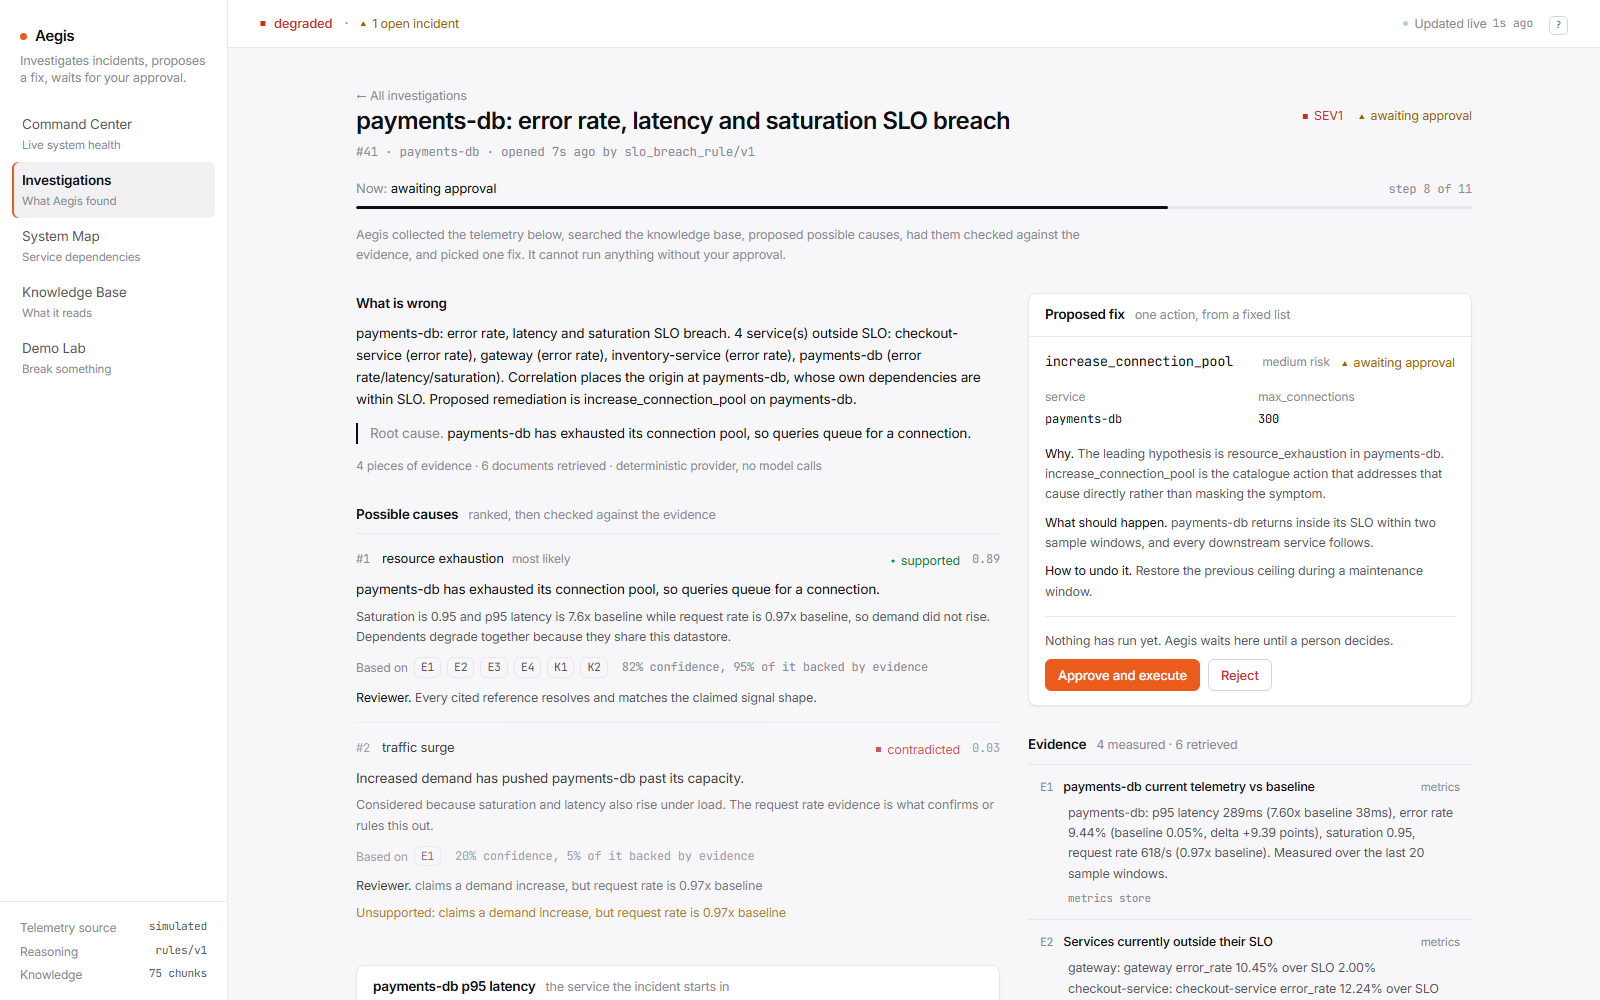
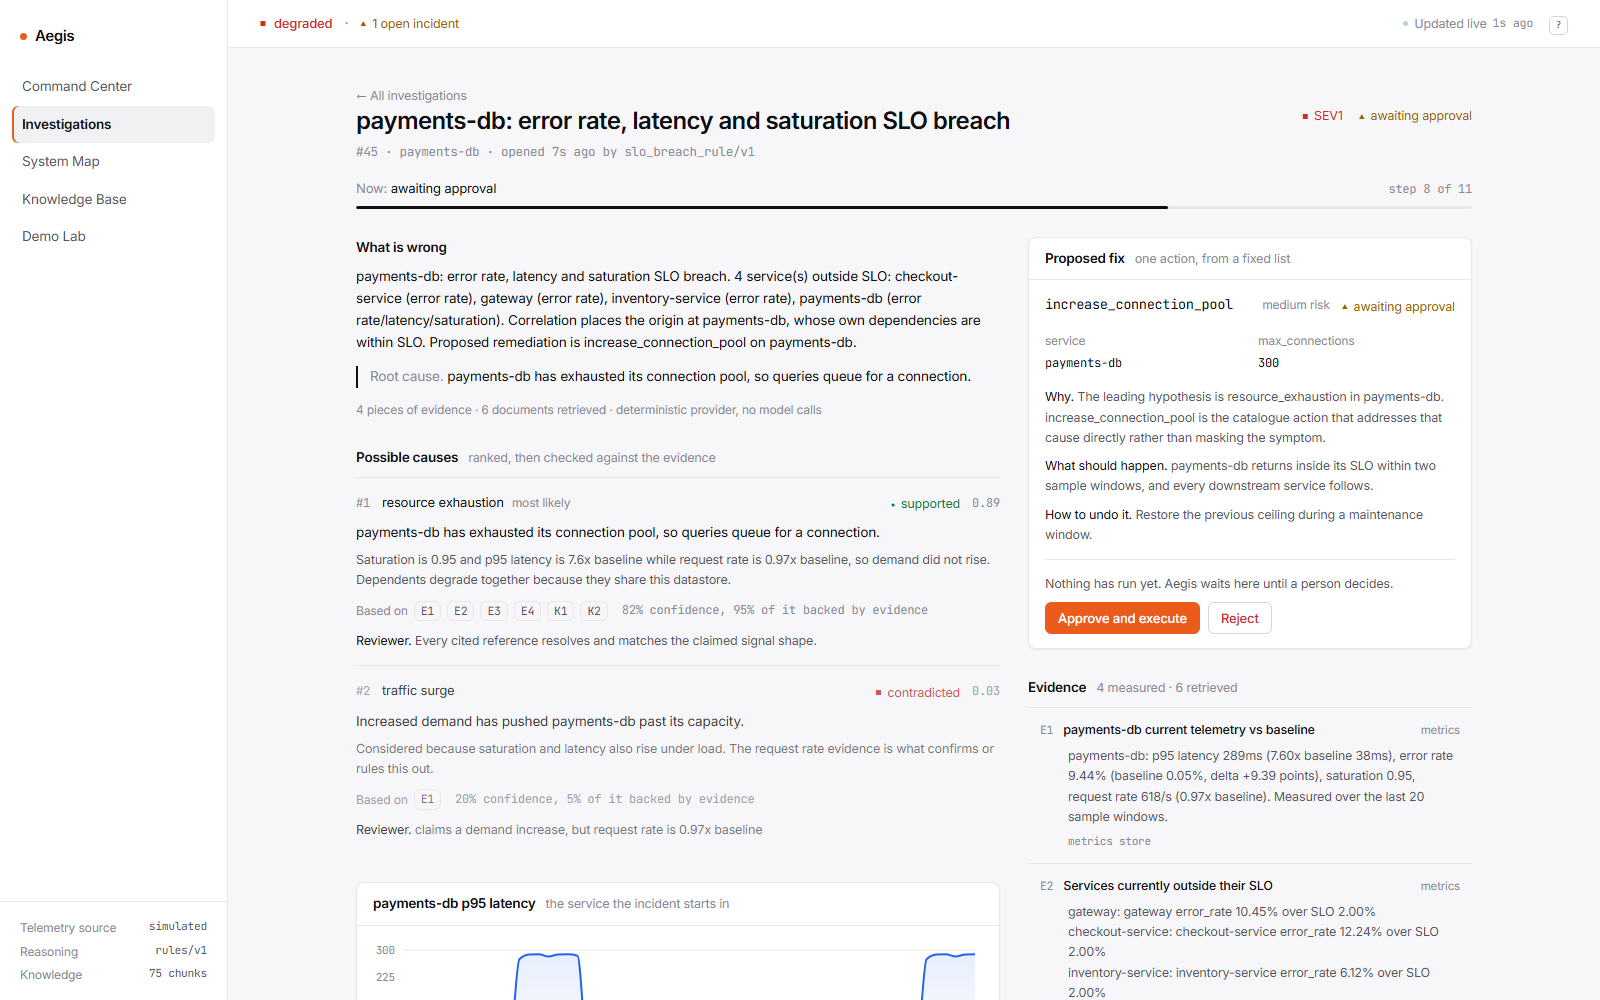
Cut the on-screen prose back
The interface had grown an explanation for everything: a tagline in the
sidebar, a caption under every nav item, a paragraph under every page title,
and a preamble on the investigation page restating the sections directly below
it. Added while trying to make the product self-explanatory, it ended up as
clutter that buried the data.

- Sidebar is five labels. The tagline and the per-item captions are gone.
- Page subtitles are one short line of metadata, or nothing where the content
  speaks for itself.
- The investigation preamble is gone; the section headings already say it.
- Fixed a real duplication: the reviewer note and the 'Unsupported' line were
  printing the same sentence twice, because the offline provider builds its
  note from the same claims. The claim is now suppressed when the note already
  quotes it.

diff --git a/frontend/src/components/Layout.tsx b/frontend/src/components/Layout.tsx
@@ -5,11 +5,11 @@ import { useIncidents, useSystemStatus } from '../hooks/queries'
 import { Badge, Kbd, StatusDot, fmtAgo } from './ui'
 
 const NAV = [
-  { to: '/', label: 'Command Center', key: 'c', end: true, note: 'Live system health' },
-  { to: '/incidents', label: 'Investigations', key: 'i', end: false, note: 'What Aegis found' },
-  { to: '/map', label: 'System Map', key: 'm', end: false, note: 'Service dependencies' },
-  { to: '/knowledge', label: 'Knowledge Base', key: 'k', end: false, note: 'What it reads' },
-  { to: '/lab', label: 'Demo Lab', key: 'l', end: false, note: 'Break something' },
+  { to: '/', label: 'Command Center', key: 'c', end: true },
+  { to: '/incidents', label: 'Investigations', key: 'i', end: false },
+  { to: '/map', label: 'System Map', key: 'm', end: false },
+  { to: '/knowledge', label: 'Knowledge Base', key: 'k', end: false },
+  { to: '/lab', label: 'Demo Lab', key: 'l', end: false },
 ]
 
 /** Telemetry polls every 2s; three missed cycles is no longer "live". */
@@ -151,14 +151,10 @@ export function Layout() {
             <span aria-hidden className="h-[7px] w-[7px] rounded-full bg-accent" />
             <span className="text-[15px] font-semibold tracking-tight text-ink">Aegis</span>
           </div>
-          {/* One line, so a first-time visitor knows what they are looking at. */}
-          <p className="mt-1 text-[12.5px] leading-snug text-ink-3">
-            Investigates incidents, proposes a fix, waits for your approval.
-          </p>
         </div>
 
         <div className="flex flex-col px-3">
-          {NAV.map(({ to, label, end, key, note }) => (
+          {NAV.map(({ to, label, end, key }) => (
             <NavLink
               key={to}
               to={to}
@@ -171,16 +167,13 @@ export function Layout() {
               }
             >
               {({ isActive }) => (
-                <>
-                  <span
-                    className={`block text-[13.5px] ${
-                      isActive ? 'font-semibold text-ink' : 'text-ink-2'
-                    }`}
-                  >
-                    {label}
-                  </span>
-                  <span className="block text-[11.5px] text-ink-3">{note}</span>
-                </>
+                <span
+                  className={`block text-[13.5px] ${
+                    isActive ? 'font-semibold text-ink' : 'text-ink-2'
+                  }`}
+                >
+                  {label}
+                </span>
               )}
             </NavLink>
           ))}

diff --git a/frontend/src/pages/IncidentInvestigation.tsx b/frontend/src/pages/IncidentInvestigation.tsx
@@ -120,11 +120,14 @@ function HypothesisCard({
         </p>
       )}
 
-      {hypothesis.unsupported_claims.map((claim) => (
-        <p key={claim} className="mt-1.5 text-[12.5px] leading-relaxed text-warn">
-          Unsupported: {claim}
-        </p>
-      ))}
+      {/* The reviewer note often already quotes the claim; do not print it twice. */}
+      {hypothesis.unsupported_claims
+        .filter((claim) => !hypothesis.critic_note.includes(claim))
+        .map((claim) => (
+          <p key={claim} className="mt-1.5 text-[12.5px] leading-relaxed text-warn">
+            Unsupported: {claim}
+          </p>
+        ))}
     </article>
   )
 }
@@ -290,12 +293,6 @@ export function IncidentInvestigation() {
         </div>
 
         <WorkflowTrack state={incident.workflow_state} />
-
-        <p className="max-w-3xl text-[12.5px] leading-relaxed text-ink-3">
-          Aegis collected the telemetry below, searched the knowledge base, proposed possible
-          causes, had them checked against the evidence, and picked one fix. It cannot run anything
-          without your approval.
-        </p>
       </header>
 
       {incident.workflow_error && (

diff --git a/frontend/src/pages/SystemMap.tsx b/frontend/src/pages/SystemMap.tsx
@@ -88,11 +88,7 @@ export function SystemMap() {
         <h1 className="text-[24px] leading-tight font-bold tracking-tight text-ink">
           System Map
         </h1>
-        <p className="mt-1.5 max-w-2xl text-[13px] leading-relaxed text-ink-3">
-          Each arrow points from a service to something it depends on. This is how Aegis separates
-          cause from consequence: when several services alarm at once, the real origin is the one
-          that is failing without any of its own dependencies failing.
-        </p>
+        <p className="mt-1 text-[12.5px] text-ink-3">Arrows point to dependencies</p>
       </header>
 
       <Card title="Dependency graph" hint="click a service for detail" bodyClass="p-0">

diff --git a/frontend/src/pages/DemoLab.tsx b/frontend/src/pages/DemoLab.tsx
@@ -34,11 +34,7 @@ export function DemoLab() {
           <h1 className="text-[24px] leading-tight font-bold tracking-tight text-ink">
             Demo Lab
           </h1>
-          <p className="mt-1.5 max-w-2xl text-[13px] leading-relaxed text-ink-3">
-            Break the simulated platform on purpose. Pick a failure below; within a few seconds
-            Aegis will detect it, work out which service it started in, and propose a fix for you
-            to approve.
-          </p>
+          <p className="mt-1 text-[12.5px] text-ink-3">Break the platform on purpose</p>
         </div>
         <div className="flex items-center gap-2">
           {openIncident && (

diff --git a/frontend/src/pages/KnowledgeBase.tsx b/frontend/src/pages/KnowledgeBase.tsx
@@ -22,11 +22,7 @@ export function KnowledgeBase() {
         <h1 className="text-[24px] leading-tight font-bold tracking-tight text-ink">
           Knowledge Base
         </h1>
-        <p className="mt-1.5 max-w-2xl text-[13px] leading-relaxed text-ink-3">
-          The runbooks, architecture notes and past postmortems Aegis reads during an
-          investigation. Search here to see exactly what it would retrieve, and why each result
-          ranked where it did.
-        </p>
+        <p className="mt-1 text-[12.5px] text-ink-3">What Aegis reads during an investigation</p>
       </header>
 
       <section>

diff --git a/frontend/src/pages/Incidents.tsx b/frontend/src/pages/Incidents.tsx
@@ -13,9 +13,8 @@ export function Incidents() {
         <h1 className="text-[24px] leading-tight font-bold tracking-tight text-ink">
           Investigations
         </h1>
-        <p className="mt-1.5 max-w-2xl text-[13px] leading-relaxed text-ink-3">
-          Every incident Aegis has opened, newest first.{' '}
-          {isLoading ? '' : `${incidents?.length ?? 0} recorded, ${open.length} still open.`}
+        <p className="tnum mt-1 text-[12.5px] text-ink-3">
+          {isLoading ? '—' : `${incidents?.length ?? 0} recorded · ${open.length} open`}
         </p>
       </header>
 

diff --git a/frontend/src/pages/CommandCenter.tsx b/frontend/src/pages/CommandCenter.tsx
@@ -133,9 +133,8 @@ export function CommandCenter() {
         <h1 className="text-[24px] leading-tight font-bold tracking-tight text-ink">
           Command Center
         </h1>
-        <p className="mt-1.5 max-w-2xl text-[13px] leading-relaxed text-ink-3">
-          {total || 'Six'} services, sampled every two seconds. An incident opens automatically when
-          a service stays outside its SLO for three consecutive samples.
+        <p className="tnum mt-1 text-[12.5px] text-ink-3">
+          {total} services · sampled every 2s
         </p>
       </header>
 
